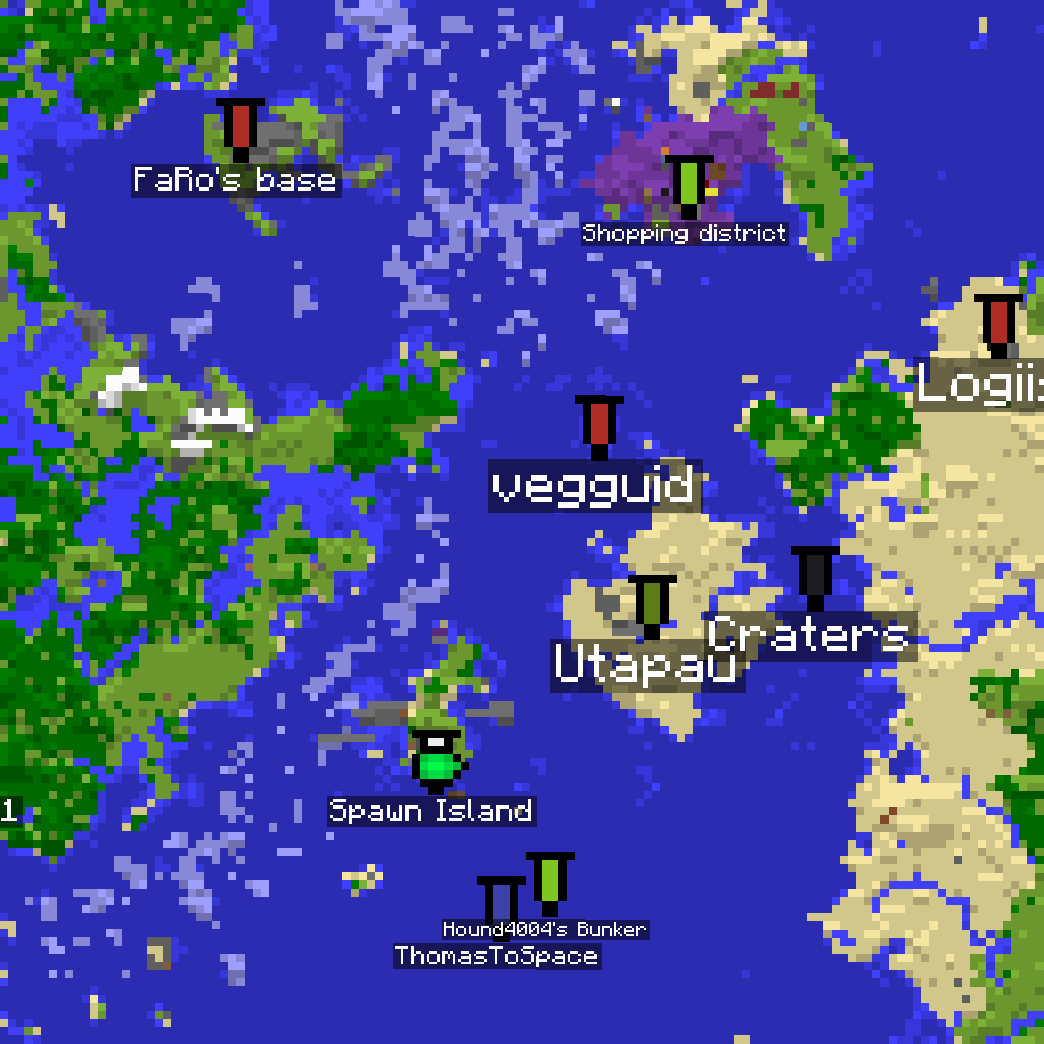
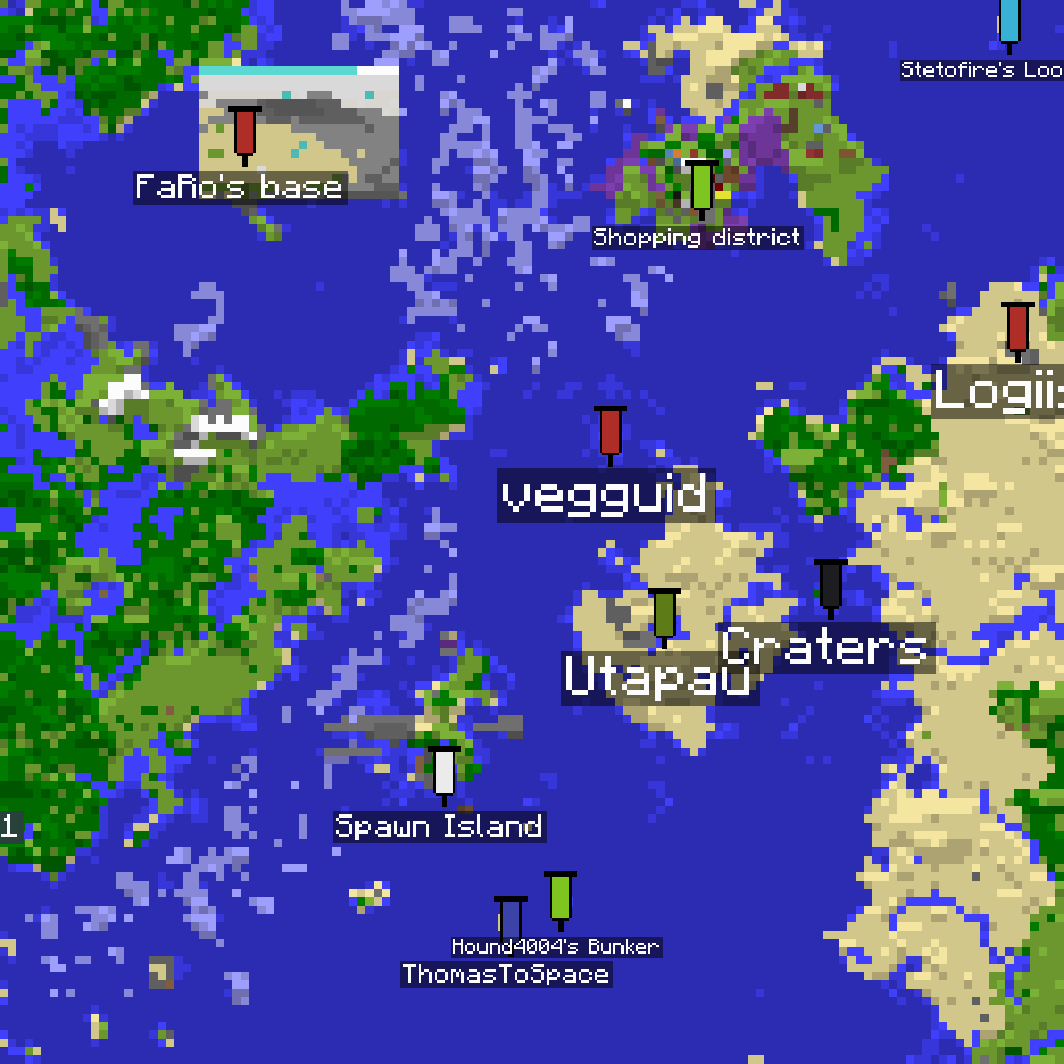
octomap: Update FaRo, Deltflight base and north mapart area

diff --git a/octomap18/list.js b/octomap18/list.js
@@ -16,6 +16,7 @@ octo18list.push("2,-1");
 octo18list.push("-2,1");
 octo18list.push("-2,-1");
 octo18list.push("2,-2");
+octo18list.push("2,-3");
 octo18list.push("-2,7");
 octo18list.push("3,0");
 octo18list.push("-3,1");
@@ -23,4 +24,5 @@ octo18list.push("4,0");
 octo18list.push("4,1");
 octo18list.push("-5,0");
 octo18list.push("5,1");
+octo18list.push("-5,2");
 octo18list.push("6,1");
